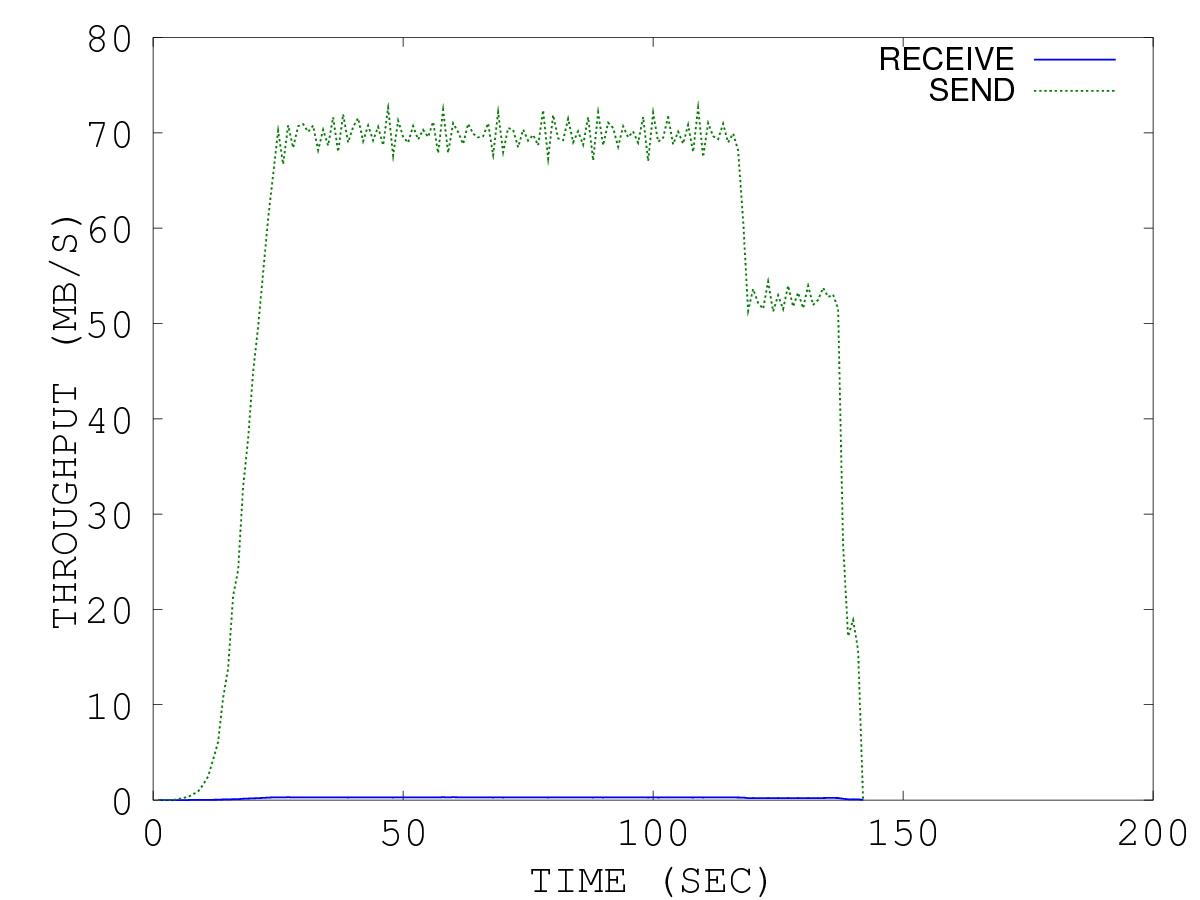
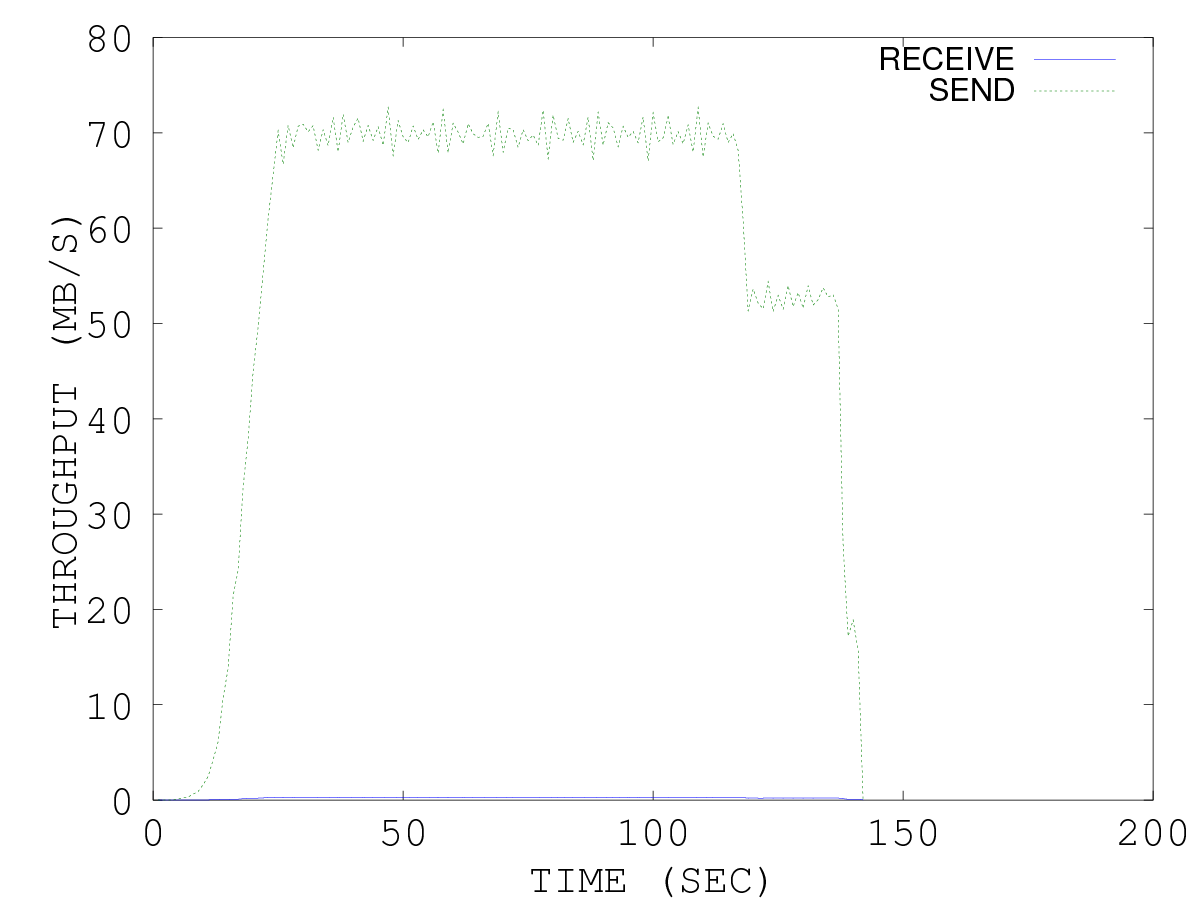
all

diff --git a/plot/plotnet.m b/plot/plotnet.m
@@ -32,7 +32,7 @@ A = csvread(prefix, startrow, recvcol);
 figure;
 output = data
 x = 1:1:length(A);
-pl = plot(x, A(:,1)/1000000, x, A(:,2)/1000000, ':', 'LineWidth', linewidth, 'MarkerSize', markersize);
+pl = plot(x, A(:,1)/1000000, x, A(:,2)/1000000, ':', 'MarkerSize', markersize);
 %pl = plot(x, A(:,1)/1000000, x, A(:,2)/1000000, '-*-', 'LineWidth', linewidth);
 %plot(x, A(:,1)/1000000, x, A(:,2)/1000000, '--rs');
 %plot(x, A(:,1)/1000000, x, A(:,2)/1000000, '-.*');
@@ -40,8 +40,8 @@ xlabel('TIME (SEC)');
 ylabel('THROUGHPUT (MB/S)');
 legend('RECEIVE', 'SEND');
 
-set(pl(1), 'LineWidth', linewidth);
-set(pl(2), 'LineWidth', linewidth);
+%set(pl(1), 'LineWidth', linewidth);
+%set(pl(2), 'LineWidth', linewidth);
 
 set(gca,'FontSize',fontsize)
 set(findall(gcf,'type','text'),'FontSize',fontsize)
@@ -54,14 +54,14 @@ saveas (1, strcat(output, ".emf"));
 figure;
 output = strcat(prefix, ".recv");
 x = 1:1:length(A);
-pl = plot(x, A(:,1)/1000000, x, A(:,1)/(1000000*N), '-*', 'LineWidth', linewidth, 'MarkerSize', markersize);
-%plot(x, A(:,1)/1000000, x, A(:,1)/(1000000*N), ':');
+%pl = plot(x, A(:,1)/1000000, x, A(:,1)/(1000000*N), '-*', 'LineWidth', linewidth, 'MarkerSize', markersize);
+plot(x, A(:,1)/1000000, x, A(:,1)/(1000000*N), ':', 'MarkerSize', markersize);
 xlabel('TIME (SEC)');
 ylabel('THROUGHPUT (MB/s)');
 legend('AGGREGATE', 'PER VM');
 
-set(pl(1), 'LineWidth', linewidth);
-set(pl(2), 'LineWidth', linewidth);
+%set(pl(1), 'LineWidth', linewidth);
+%set(pl(2), 'LineWidth', linewidth);
 
 set(get(gca, 'YLabel'), 'Position', [-1, 5, 0]);
 %set(get(gca, 'YLabel'), 'Units', 'Normalized', 'Position', [-0.1, 0.5, 0]);
@@ -79,7 +79,7 @@ saveas (1, strcat(output, ".emf"));
 figure;
 output = strcat(prefix, ".send");
 x = 1:1:length(A);
-pl = plot(x, A(:,2)/1000000, x, 'LineWidth', linewidth, A(:,2)/(1000000*N), ':', 'MarkerSize', markersize);
+pl = plot(x, A(:,2)/1000000, x, A(:,2)/(1000000*N), ':', 'MarkerSize', markersize);
 %pl = plot(x, A(:,2)/1000000, x, 'LineWidth', linewidth, A(:,2)/(1000000*N), '---.', 'LineWidth', linewidth);
 %pl = plot(x, A(:,2)/1000000, x, 'LineWidth', linewidth, A(:,2)/(1000000*N), '--..', 'LineWidth', linewidth);
 %plot(x, A(:,2)/1000000);
